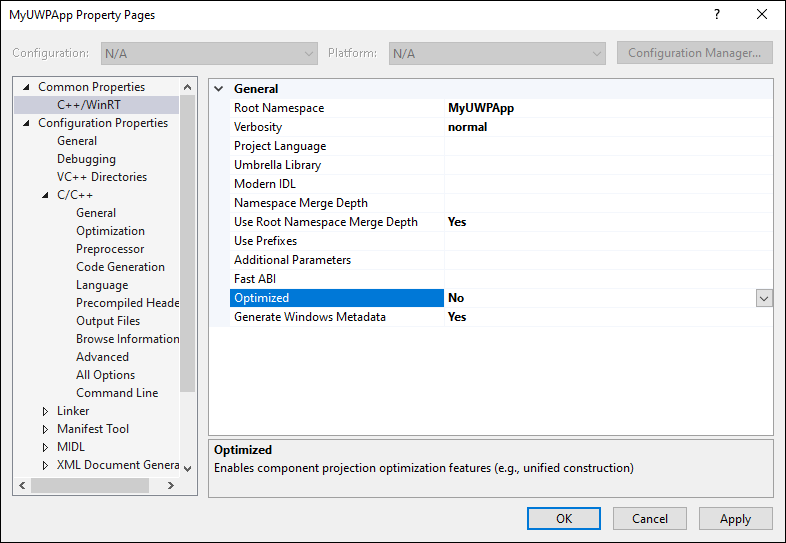
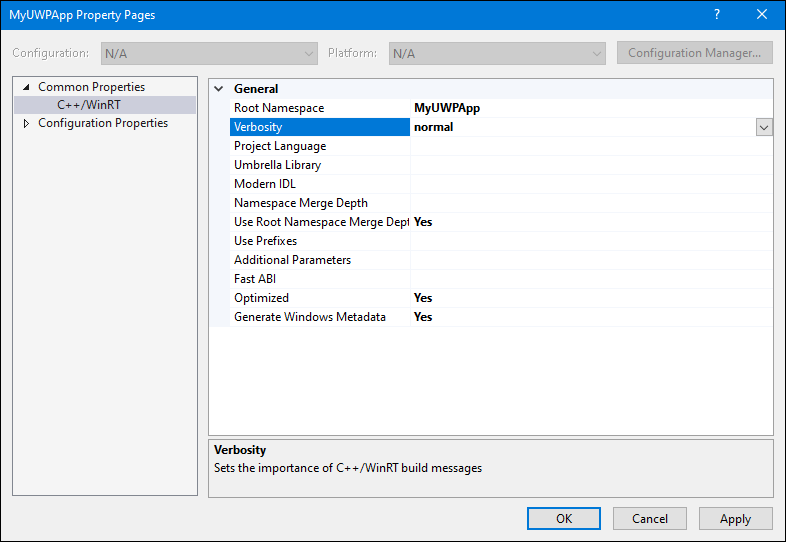
Expanded C++/WinRT optimize details in walkthrough (#917)

diff --git a/hub/apps/desktop/modernize/host-custom-control-with-xaml-islands-cpp.md b/hub/apps/desktop/modernize/host-custom-control-with-xaml-islands-cpp.md
@@ -58,12 +58,7 @@ Next, add a **UWP (C++/WinRT)** app project to your solution and make some confi
     1. Right-click the **MyUWPApp** project and choose **Manage NuGet Packages**.
     2. Select the **Browse** tab, search for the [Microsoft.Toolkit.Win32.UI.XamlApplication](https://www.nuget.org/packages/Microsoft.Toolkit.Win32.UI.XamlApplication) package, and install v6.0.0 or a later version of this package.
 
-4. Right-click the **MyUWPApp** node and select **Properties**. On the **Common Properties** -> **C++/WinRT** page, set the following properties and then click **Apply**.
-
-    * Set **Verbosity** to **normal**.
-    * Set **Optimized** to **No**.
-
-    When you are done, the properties page should look like this.
+4. Right-click the **MyUWPApp** node and select **Properties**. On the **Common Properties** -> **C++/WinRT** page, set the **Verbosity** property to **normal** and then click **Apply**. When you are done, the properties page should look like this.
 
     ![C++/WinRT project properties](images/xaml-islands/xaml-island-cpp-1.png)
 
@@ -255,6 +250,9 @@ Next, revise the default **App** class in the **MyUWPApp** project to derive fro
             }
         }
         ```
+
+        > [!NOTE]
+        > The `#include "App.g.cpp"` statement is necessary when the **Optimized** property on the **Common Properties** -> **C++/WinRT** page of the project properties is set to **Yes**. This is the default for new C++/WinRT projects. For more details about the effects of the **Optimized** property, see [this section](/windows/uwp/cpp-and-winrt-apis/author-apis#opt-in-to-uniform-construction-and-direct-implementation-access).
 
 4. Add a new header file to the **MyUWPApp** project named **app.base.h**.
 5. Add the following code to the **app.base.h** file, save the file, and close it.
